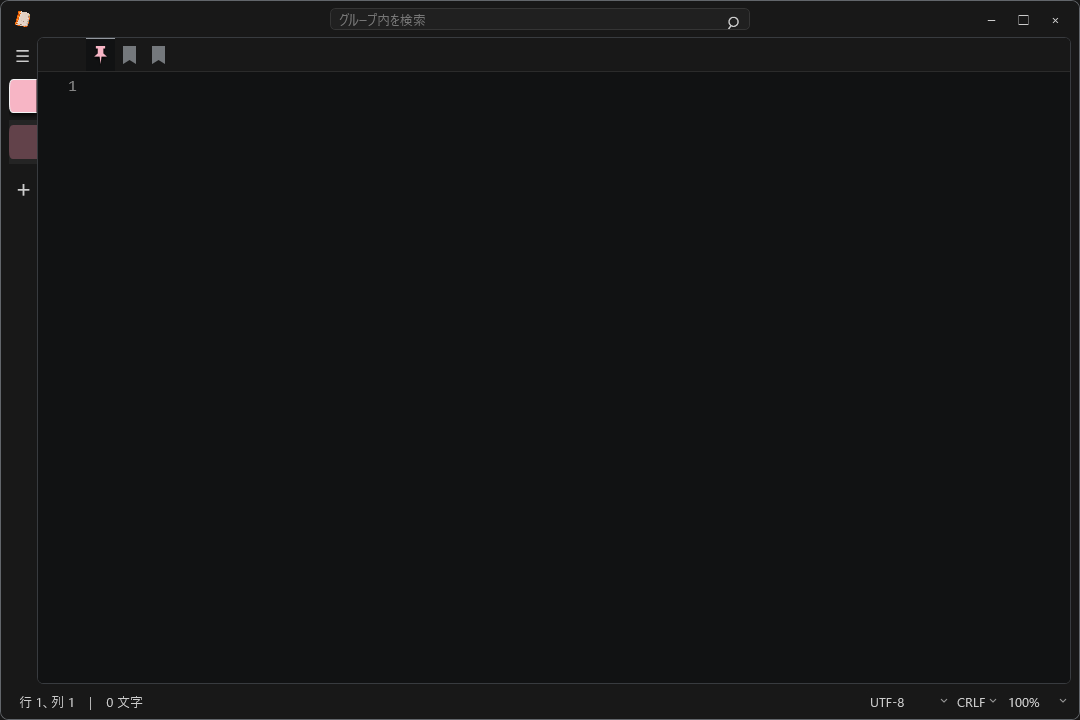
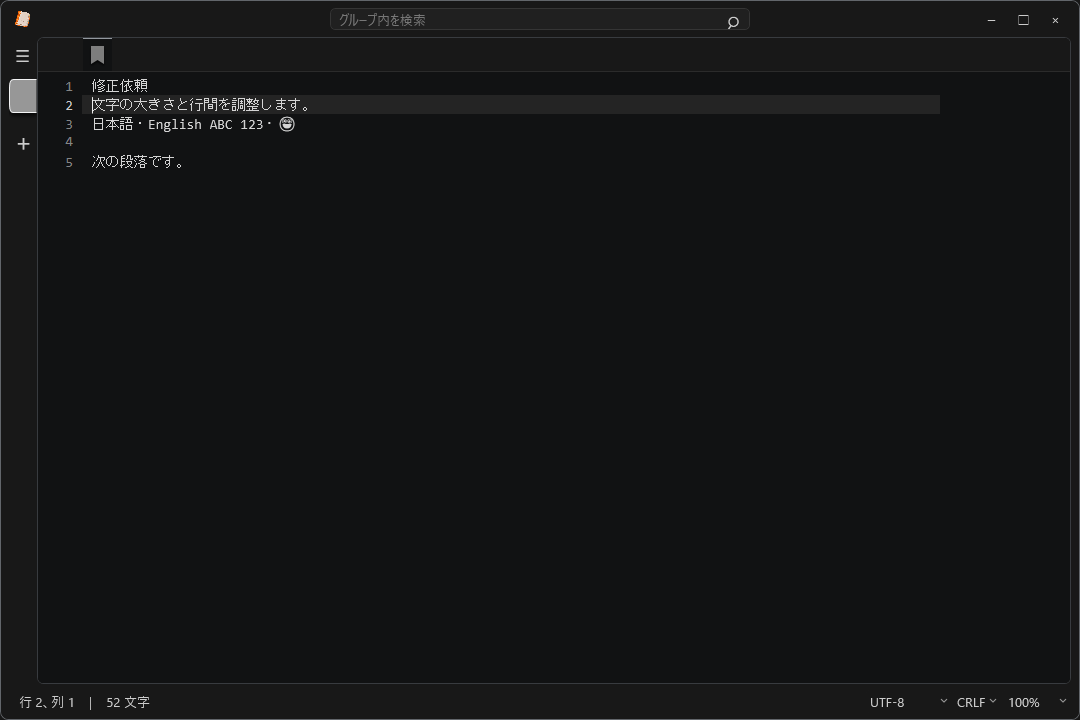
Add files via upload

Changed region(s): [[0.0, 0.0611, 0.275, 0.2444], [0.0917, 0.2139, 0.1528, 0.2444], [0.0917, 0.9472, 0.1222, 0.9778]]

diff --git a/CHANGELOG.md b/CHANGELOG.md
@@ -1,5 +1,20 @@
 # 更新履歴
 
+## 0.1.2-preview
+
+- 標準の日本語補完フォントをMS ゴシックへ変更し、英数字のConsolasと組み合わせ
+- 本文の標準サイズ14pxを保ち、1行の高さを20pxから19pxへ調整
+- 入力中の論理行の背景と行番号を強調表示。折り返し、明暗テーマ、分割表示のフォーカスにも対応
+- 行背景を描いた状態でも文字のClearType描画を利用できるよう調整
+- 分割表示を開いた直後に右側の編集欄へ入力フォーカスが移るよう修正
+
+## 0.1.1-preview
+
+- 本文と行番号の標準文字サイズを16pxから14pxへ調整
+- 標準の1行の高さを20pxにし、文字サイズ・表示倍率に合わせて行間も拡大縮小
+- 以前の標準設定を移行し、独自の文字サイズ・フォントと表示倍率は保持
+- 検索結果からメモを開くとき、以前のタブへフォーカスが戻る場合がある問題を修正
+
 ## 0.1.0-preview
 
 初回公開に向けたプレビュー版です。
